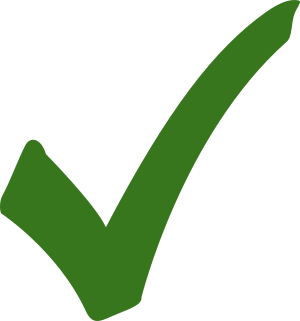
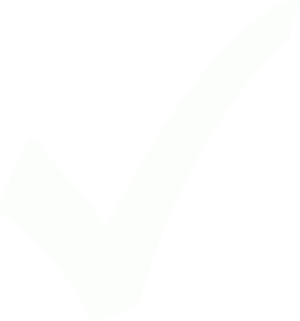
Additional homepage design improvements.

Changed region(s): [[0.0, 0.0, 1.0, 1.0]]

diff --git a/src/app/core/home/home.component.html b/src/app/core/home/home.component.html
@@ -14,15 +14,15 @@
 </mat-card>
 <mat-card>
   <div class="content-container">
-    <h3>Why Checklists Matter</h3>
-    <p>Checklists help people to:</p>
+    <h2>Why Checklists Matter</h2>
+    <h3>Checklists help people:</h3>
     <div class="clst-home-checklist">
       <mat-checkbox checked="true">Organize themselves.</mat-checkbox>
       <mat-checkbox checked="true">Take action.</mat-checkbox>
       <mat-checkbox checked="true"><a href="http://atulgawande.com/book/the-checklist-manifesto/">Avoid mistakes</a>.</mat-checkbox>
     </div>
     <p>In fact, there are <a href="https://duckduckgo.com/?q=checklists+are+important">many benefits to using checklists</a>. These benefits allow people to engage with you (as a brand, as an organization, as a person) in a positive context that brings them value.</p>
-    <p>Going back to the point about avoiding mistakes. It is always better to... "check yo self, before you wreck yourself."</p>
+    <p>Going back to the point about avoiding mistakes. For all of us, it is always better to... "check yo self, before you wreck yourself."</p>
     <div class="media-container">
       <iframe width="468" height="300" scrolling="no" frameborder="no" allow="autoplay" src="https://w.soundcloud.com/player/?url=https%3A//api.soundcloud.com/tracks/253010032&color=%23ff5500&auto_play=false&hide_related=false&show_comments=true&show_user=true&show_reposts=false&show_teaser=true&visual=true"></iframe>
     </div>
@@ -30,7 +30,7 @@
 </mat-card>
 <mat-card>
   <div class="content-container">
-    <h1>Start Sharing Today</h1>
+    <h1 class="closing-action">Start a Checklist Today</h1>
     <div class="clst-home-actions closing-actions">
       <div class="clst-home-action">
         <a routerLink="/register" mat-button><i class="material-icons">radio_button_checked</i> Register</a>

diff --git a/src/app/core/home/home.component.scss b/src/app/core/home/home.component.scss
@@ -9,9 +9,11 @@
 }
 
 h1 {
-  color: mat-color($clst-app-secondary);
   border-left: none;
   padding-left: 0;
+  &.closing-action {
+    color: mat-color($clst-app-secondary);
+  }
 }
 
 .clst-home-actions {
@@ -60,7 +62,6 @@ h1 {
     background-size: 250px;
     width: 100%;
     height: 100%;
-    opacity : 0.5;
     z-index: -1;
   }
 }
